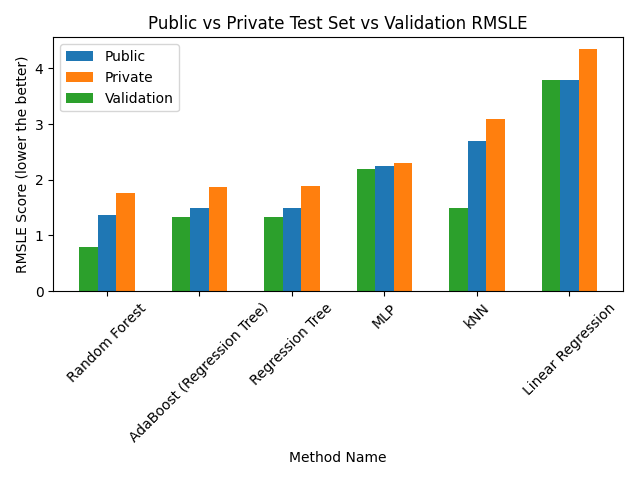
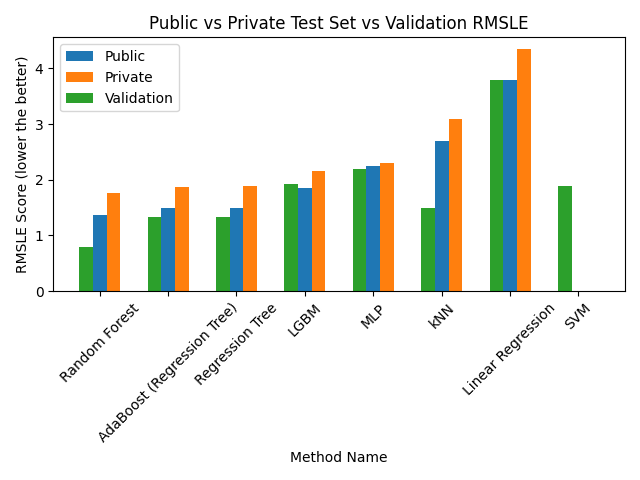
pushing after presentation done

diff --git a/experiments/lgbm_b.py b/experiments/lgbm_b.py
@@ -1,32 +1,24 @@
-from data import data
-import numpy as np
+from sklearn.experimental import enable_hist_gradient_boosting
+from sklearn.ensemble import HistGradientBoostingRegressor # histogram-based gradient boost basically LGBM
+# LGBM is like trademarked by Microsoft or something; similar to H264
 import os
+import numpy as np
+import data
 import gc
+from math import e
+import os
+import numpy as np
+from data import data 
 from src import pca
-from src import nn
-from tqdm import tqdm
+from src import models
 from sklearn.model_selection import train_test_split
+import gc
+from sklearn.preprocessing import StandardScaler
+from sklearn.metrics import mean_squared_log_error as sk_rmsle
+from sklearn.metrics import r2_score as sk_r2score
+import time
 
-def run1(data_path, lr=0.01, epochs=100, minibatch=8, network_shape=[13,20,30,4,1]):
-    x, y, _test = loadTrainData(data_path)
-    model = nn.Network(network_shape)
-    y /= np.max(y)
-
-    _train_pca, _mini_test_pca, mini_y, mini_test_y = train_test_split(x, y, test_size=0.1, random_state=42)
-    
-    print(_train_pca.shape, _mini_test_pca.shape, mini_y.shape, mini_test_y.shape)
-    mini_y = np.expand_dims(mini_y, axis=1)
-    mini_test_y = np.expand_dims(mini_test_y, axis=1)
-    _train = []
-    _test = []
-    print(_train_pca.shape, _mini_test_pca.shape, mini_y.shape, mini_test_y.shape)
-    exit()
-    model.SGD(_train_pca, epochs, minibatch, lr, mini_test_y)
-    #print(sample, mini_y[i])
-
-    return 0
-
-def loadTrainData(data_path):
+def run1(data_path):
     train_file = os.path.join(data_path, 'train.csv')
     train_meta_file = os.path.join(data_path, 'building_metadata.csv')
     train_weather_file = os.path.join(data_path, 'weather_train.csv') # features for training
@@ -62,6 +54,12 @@ def loadTrainData(data_path):
         data.saveCache( np.concatenate([x,np.expand_dims(y,axis=1)], axis=1), _data_cache)
         data.saveCache(meta, _meta_cache)
     
+    '''
+    scaler = StandardScaler()
+    scaler.fit(x)
+    x = scaler.transform(x)
+    '''
+
     gc.collect()
 
     meta = np.delete(meta, 3) # remove "meter_reading from meta labels"
@@ -72,23 +70,70 @@ def loadTrainData(data_path):
     mini_train, mini_y = x[mini_train_idx], y[mini_train_idx]
     print("Mini training size:", mini_train.shape, mini_y.shape)
 
-    # From the sparsity graph, we should probably remove floor count:
-    mini_train = np.delete(mini_train, np.argwhere(meta=='floor_count'), axis=1)
-    meta = np.delete(meta, np.argwhere(meta=='floor_count'))
+    # Graph out how sparse every feature is:
+    #data.featureSparsity(mini_train, meta) # disable fill nan
     
     # From the sparsity graph, we should probably remove floor count:
+    mini_train = np.delete(mini_train, np.argwhere(meta=='floor_count'), axis=1)
+    # From the sparsity graph, we should probably remove floor count:
     mini_train = np.delete(mini_train, np.argwhere(meta=='year_built'), axis=1)
-    meta = np.delete(meta, np.argwhere(meta=='year_built'))
 
     # reduce complexity of data:
+    print("Running PCA")
     _mini_train_pca = pca.pca(mini_train, d=3)
+    #_mini_train_pca = mini_train
+    print("Finished PCA")
 
     # memory management:
     del mini_train
-    
-    print("Testing")
+
+    _mini_train_pca, _mini_test_pca, mini_y, mini_test_y = train_test_split(_mini_train_pca, mini_y, test_size=0.1, random_state=42)
+    print("Training size: ", _mini_train_pca.shape, "Training label size:", mini_y.shape, "Testing size:", _mini_test_pca.shape, "Testing label size:", mini_test_y.shape)
+
+    '''
+    print("PCA on training data")
+    if _mini_train_pca.shape[0] > 100000:
+        data.pca_3d_plot(_mini_train_pca[:100000,:])
+    else:
+        data.pca_3d_plot(_mini_train_pca)
+    '''
+
+    # run classifier: regression trees:
+    print("Fitting....")
+    #_model = models.regressionTrees(_mini_train_pca, mini_y, _mini_test_pca, mini_test_y, max_depth=15)
+    _model = HistGradientBoostingRegressor(max_iter=1000, max_leaf_nodes=50)
+    _model.fit(_mini_train_pca, mini_y)
+    t1 = time.time()
+    pred = _model.predict(_mini_test_pca)
+    t2 = time.time()
+    print(t2-t1)
+
+    exit()
+    pred = np.where(pred<0, 0, pred)
+    _error = np.sqrt(sk_rmsle(mini_test_y, pred))
+    print("Validation RMSLE:", _error)
+    _r2 = sk_r2score(mini_test_y, pred)
+    print("Validation R2:", _r2)
+
+    del _mini_train_pca
+    del mini_y
+    del _mini_test_pca
+    del mini_test_y
+    del mini_train_idx
+    gc.collect(1)
+
+    # test on real testset:
+    # reduce with PCA:
+    print("Reading in testset...")
     test_x, _ = data.loadTestFeatures(test_file, test_weather_file, train_meta_file) # no y included; ignoring the column name output cuz I already know it
+    test_x = np.delete(test_x, np.argwhere(meta=='floor_count'), axis=1)
+    # From the sparsity graph, we should probably remove floor count:
+    test_x = np.delete(test_x, np.argwhere(meta=='year_built'), axis=1)
     pca_test_x = pca.incremental_pca(test_x, 3, 3000)
     del test_x
-    
-    return _mini_train_pca, y, pca_test_x # train_x, train_y, test_x
+    meta = np.delete(meta, np.argwhere(meta=='year_built'))
+    meta = np.delete(meta, np.argwhere(meta=='floor_count'))
+
+    test_result = data.test(_model, pca_test_x, is_scipy=True)
+    #np.save('test_out_example.npy', test_result)
+    data.test_to_csv(test_result,'./submissions/test_lgbm_pca.csv')

diff --git a/data/data.py b/data/data.py
@@ -91,6 +91,49 @@ def mapMetaToTrain(df_tb, df_tm, df_wm, fill_na=True):
 
     return df_tb.to_numpy(), y.to_numpy(), _cols # x,y
 
+def mapMetaToTrainv2(df_tb, df_tm, df_wm, fill_na=True):
+    df_tb = df_tb.merge(df_tm, left_on='building_id', right_on='building_id', how='left')
+    df_tb = df_tb.merge(df_wm, left_on=['site_id', 'timestamp'], right_on=['site_id', 'timestamp'], how="left")
+    
+    air_temperature_mean = df_tb['air_temperature'].mean()
+    sea_lvl_pressure_mean = df_tb['sea_level_pressure'].mean()
+    cloud_coverage_mean = df_tb['cloud_coverage'].mean()
+    dew_temperature_mean = df_tb['dew_temperature'].mean()
+    precip_depth_1_hr_mean = df_tb['precip_depth_1_hr'].mean()
+    wind_direction_mean = df_tb['wind_direction'].mean()
+    wind_speed_mean = df_tb['wind_speed'].mean()
+
+    df_tb['sea_level_pressure'] = df_tb['sea_level_pressure'].fillna(sea_lvl_pressure_mean)
+    df_tb['air_temperature'] = df_tb['air_temperature'].fillna(air_temperature_mean)
+    df_tb['cloud_coverage'] = df_tb['cloud_coverage'].fillna(cloud_coverage_mean)
+    df_tb['dew_temperature'] = df_tb['dew_temperature'].fillna(dew_temperature_mean)
+    df_tb['precip_depth_1_hr'] = df_tb['precip_depth_1_hr'].fillna(precip_depth_1_hr_mean)
+    df_tb['wind_direction'] = df_tb['wind_direction'].fillna(wind_direction_mean)
+    df_tb['wind_speed'] = df_tb['wind_speed'].fillna(wind_speed_mean)
+    
+    if fill_na:
+        for col in df_tb.columns:
+            if df_tb[col].isnull().values.any():
+                df_tb[col] = df_tb[col].fillna(0)
+    _cols = df_tb.columns.to_list() # gives you meter_reading as well
+
+    
+    # manually remove site 0 based on ASHRAE feeddback:
+    df_tb = df_tb[df_tb['site_id'] != 0]
+    # print("Removed Site 0 Data Shape: " + str(df_tb.shape))
+
+    y = df_tb.pop('meter_reading')
+        
+    # memory reduction:
+    for col in df_tb.columns:
+        _dtype = df_tb[col].dtype
+        if _dtype == np.float64:
+            df_tb[col] = df_tb[col].astype(np.float32)
+    df_tb['building_id'] = df_tb['building_id'].astype(np.uint16)
+    df_tb['meter'] = df_tb['meter'].astype(np.uint8)
+    
+    return df_tb.to_numpy(), y.to_numpy(), _cols # x,y
+
 def saveCache(np_list:np.ndarray, np_file):
     print("Saving cache file for %s"%(np_file))
     np.save(np_file, np_list)

diff --git a/randomforest_of_ashrae_test.py b/randomforest_of_ashrae_test.py
@@ -4,7 +4,7 @@
 Automatically generated by Colaboratory.
 
 Original file is located at
-    https://colab.research.google.com/drive/1ijjD4AaJ2PoW2EaGf9N6z6vDX7UitcrJ
+  https://colab.research.google.com/drive/1ijjD4AaJ2PoW2EaGf9N6z6vDX7UitcrJ
 
 # Reduce Memory Footprint
 """
@@ -13,6 +13,8 @@ import numpy as np
 import scipy
 from sklearn.metrics import mean_squared_log_error
 from data import data
+from sklearn.metrics import r2_score as sk_r2score
+
 
 clean_train = pd.read_csv('colab_data.csv') # with ALL 14 features
 
@@ -46,6 +48,11 @@ from sklearn.model_selection import train_test_split
 
 X_train, X_test, Y_train, Y_test = train_test_split(X, Y, test_size=0.3, random_state=42)
 
+# PCA:
+from src import pca
+#X_train = pca.pca(X_train, 3)
+#X_test = pca.pca(X_test, 3)
+
 #Standardizing the features we using standard scalar
 from sklearn.preprocessing import StandardScaler
 scaler = StandardScaler()
@@ -58,6 +65,7 @@ from sklearn.ensemble import RandomForestRegressor
 model = RandomForestRegressor(n_estimators = 20, random_state =30)
 model.fit(X_train_scaled,Y_train)
 
+import time
 Y_predict = model.predict(X_test_scaled)
 
 X_test_scaled.shape
@@ -67,10 +75,6 @@ from sklearn.metrics import mean_absolute_error
 
 mse = mean_squared_error(Y_test,Y_predict)
 mbe = mean_absolute_error(Y_test,Y_predict)
-
-mse
-
-mbe
 
 def rmsle_metric(Y_test,Y_predict):
   #Convert the pandas series to array
@@ -93,6 +97,9 @@ rmsle_value = rmsle_metric(Y_test,Y_predict)
 print(rmsle_value)
 rmsle_metric = np.sqrt(mean_squared_log_error(Y_test,Y_predict))
 print(rmsle_value)
+_r2 = sk_r2score(Y_test, Y_predict)
+print("R2 Score:", _r2)
+exit()
 
 del Y_test
 del Y_predict
@@ -115,7 +122,8 @@ clean_test = clean_test.drop(columns='floor_count')
 clean_test = clean_test.drop(columns='year_built')
 
 test_X = clean_test.to_numpy()
+test_X = pca.incremental_pca(test_X, 3, 3000)
 X_test_scaled = scaler.transform(test_X)
 test_Y_predict = model.predict(X_test_scaled)
 print(test_Y_predict.shape)
-data.test_to_csv(test_Y_predict, 'submissions/test_random_regression_tree.csv')
+data.test_to_csv(test_Y_predict, 'submissions/test_random_regression_tree_pca.csv')

diff --git a/figures/public_private_val_graph.py b/figures/public_private_val_graph.py
@@ -3,11 +3,12 @@ import matplotlib.pyplot as plt
 
 if __name__ == '__main__':
     fig = plt.figure()
-    method_names = ['Random Forest', 'AdaBoost (Regression Tree)','Regression Tree','MLP','kNN', 'Linear Regression']
+    method_names = ['Random Forest', 'AdaBoost (Regression Tree)','Regression Tree','LGBM','MLP',\
+        'kNN', 'Linear Regression', 'SVM']
     X_axis = np.arange(len(method_names))
-    public_error = [1.363, 1.491, 1.502, 2.239, 2.704, 3.792]
-    private_error = [1.758, 1.873, 1.8929, 2.306, 3.098, 4.340]
-    val_error = [0.8, 1.329, 1.337, 2.2, 1.5, 3.795]
+    public_error = [1.363, 1.491, 1.502, 1.846, 2.239, 2.704, 3.792, 0]
+    private_error = [1.758, 1.873, 1.8929, 2.162, 2.306, 3.098, 4.340, 0]
+    val_error = [0.8, 1.329, 1.337, 1.932, 2.2, 1.5, 3.795, 1.897]
     plt.bar(X_axis, public_error, 0.2, label='Public RMSLE')
     plt.bar(X_axis + 0.2, private_error, 0.2, label='Private RMSLE')
     plt.bar(X_axis - 0.2, val_error, 0.2, label='Validation RMSLE')

diff --git a/exp.py b/exp.py
@@ -7,7 +7,7 @@ import os
 from data import data
 
 from experiments import proto1, proto2, proto3, proto3_b, proto5, proto6, proto6_adam, proto1_b
-from experiments import proto7, proto9, proto9_b, proto8, lgbm, proto7_b
+from experiments import proto7, proto9, proto9_b, proto8, lgbm, lgbm_b, proto7_b
 
 def parseArgs():
     args = argparse.ArgumentParser()
@@ -45,6 +45,8 @@ def expRun(exp_name:str, *exp_kwargs):
         proto9_b.run1(*exp_kwargs)
     elif exp_name == 'lgbm':
         lgbm.run1(*exp_kwargs)
+    elif exp_name == 'lgbm_b':
+        lgbm_b.run1(*exp_kwargs)
     else:
         raise Exception("Unrecognized experiment name!")
 

diff --git a/experiments/lgbm.py b/experiments/lgbm.py
@@ -102,7 +102,14 @@ def run1(data_path):
     #_model = models.regressionTrees(_mini_train_pca, mini_y, _mini_test_pca, mini_test_y, max_depth=15)
     _model = HistGradientBoostingRegressor(max_iter=1000, max_leaf_nodes=50)
     _model.fit(_mini_train_pca, mini_y)
+    
+    import time
+    t1 = time.time()
     pred = _model.predict(_mini_test_pca)
+    t2 = time.time()
+    print(t2-t1)
+
+    exit()
     pred = np.where(pred<0, 0, pred)
     _error = np.sqrt(sk_rmsle(mini_test_y, pred))
     print("Validation RMSLE:", _error)

diff --git a/src/models.py b/src/models.py
@@ -36,6 +36,7 @@ def adaBoostRegression(x,y, test_data, test_data_y, max_depth=15, estimators=10)
     model = AdaBoostRegressor(DecisionTreeRegressor(max_depth=max_depth), n_estimators=estimators)
     model.fit(x, y)
     pred = model.predict(test_data)
+    print(t2-t1)
     gt = test_data_y
     _error = np.sqrt(sk_rmsle(pred, gt))
     print("Average Validation RMSLE:", _error)

diff --git a/README.md b/README.md
@@ -39,12 +39,15 @@ For example, we have a **Prototype 1** milestone due soon, and to run the final 
 | Prototype 1  |  (PCA) Regression Tree  | Callable with `--exp proto1`. Executes PCA reduction from 13 to 3 dimensions in training and testing set. Experiment runs training for **Regression Tree**. Max depth for tree is set to `15`       | 1.847 | 0.34399 | 2.439/2.215 |
 | Prototype 1b  |  (13) Regression Tree  | Callable with `--exp proto1b`. Experiment runs training for **Regression Tree** with 13 features. Max depth for tree is set to `15`       | 1.337 | 0.94611 | 1.829/1.502 |
 | Prototype 2 |  (13) SVM Regression  | Callable with `--exp proto2`. Executes training of SVR (Support Vector Regression) from the scipy package. Because of computation constraints, we did a very small training ~200k with validation from that 200k. Prediction also takes long so it is not feasible to run the test set.        | 1.897 | -0.00012 |N/A |
+| Prototype 2b |  (PCA) SVM Regression  | Callable with `--exp proto2`. Executes training of SVR (Support Vector Regression) from the scipy package. Because of computation constraints, we did a very small training ~200k with validation from that 200k. Prediction also takes long so it is not feasible to run the test set.        | 1.927 | -0.000181 |N/A |
 | Prototype 3 |  (PCA) kNN k=1  | Callable with `--exp proto3`. Executes fitting & evaluation of kNN (k=1) for regression. | 1.5 | 0.14192 | 3.098/2.704 |
 | Prototype 3b |  (13) kNN k=1  | Callable with `--exp proto3b`. Executes fitting & evaluation of kNN (k=1) for regression. **EXTREMELY LONG. CANNOT ACCOMPLISH** | N/A | N/A | N/A |
 | Random_of_ashrae_test |  (13) Random Forest  | Callable with `randomforest_of_ashrae_test.py` Executes fitting & evaluation of Random Forest for regression. | 0.8 | 0.82441 | 1.758/1.363 |
+| Random_of_ashrae_test |  (PCA) Random Forest  | Callable with `randomforest_of_ashrae_test.py` Executes fitting & evaluation of Random Forest for regression. | 1.8681310288304065 | 0.20570072661726113 |  |
 | Prototype 6 |  (13) MLP Keras   | Callable with `--exp proto6`. Executes training & evaluation of neural network for regression. | 2.2 | -0.0001895 | 2.306/2.239 |
 | Prototype 7 |  (PCA) AdaBoost with Regression Tree   | Callable with `--exp adaboost_v1_pca`. Executes fitting & evaluation of AdaBoost with Regression Trees | 1.8935 | 0.382 | 2.400/2.164 |
 | Prototype 7b |  (13) AdaBoost with Regression Tree   | Callable with `--exp adaboost_v1`. Executes fitting & evaluation of AdaBoost with Regression Trees | 1.329 | 0.9822 | 1.873/1.491 |
 | Prototype 9 |  (13) Linear Regression   | Callable with `--exp proto9`. Executes fitting & evaluation of Linear Regression on all 13 features | 3.795909891267558 | 0.0007017657329697613 | 4.340/3.792 |
 | Prototype 9b |  (PCA) Linear Regression   | Callable with `--exp proto9b`. Executes fitting & evaluation of Linear Regression on 3 features after PCA reduction. | 4.156 | 0.001486 | 4.115/4.059 |
-| Prototype 10 |  (13) LightGBM  | Callable with `--exp lgbm`. Executes fitting & evaluation of Linear Regression on 3 features after PCA reduction. | 1.932 | 0.9741 | 2.162/1.846 |
+| Prototype 10 |  (13) LightGBM  | Callable with `--exp lgbm`. Executes fitting & evaluation of LGBM. | 1.932 | 0.9741 | 2.162/1.846 |
+| Prototype 10b |  (PCA) LightGBM  | Callable with `--exp lgbm_b`. Executes fitting & evaluation of 3 features after PCA reduction. | 1.849 | 0.9749 |  |
